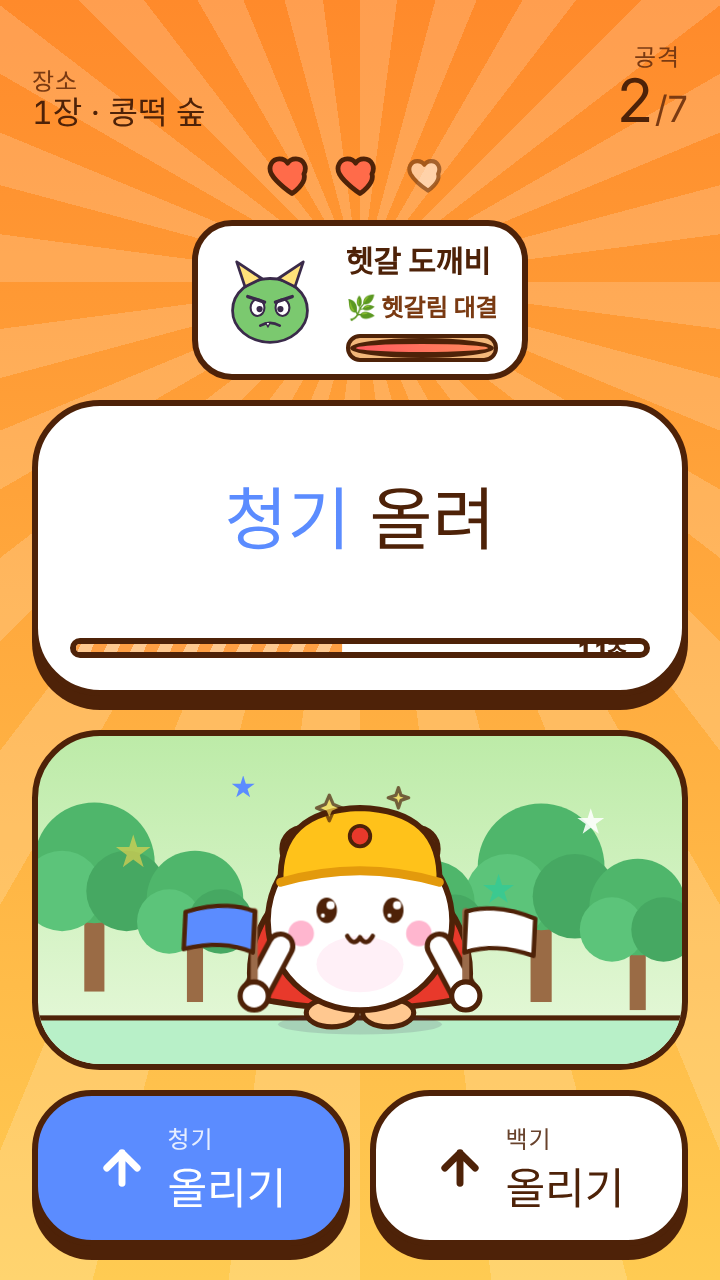
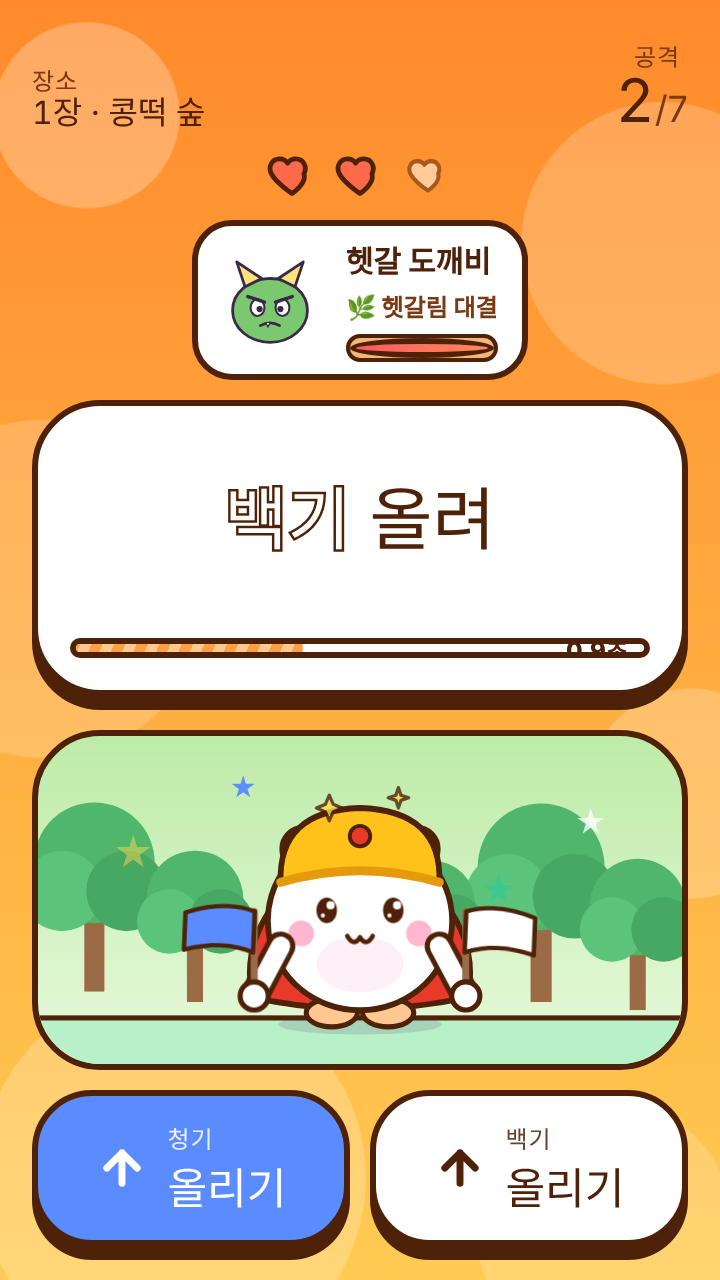
깃발용사: replace sunburst rays with soft bubble background
Claude-Session: https://claude.ai/code/session_0134mUxM4o6J5pGvRH1fZomD

diff --git a/hero/index.html b/hero/index.html
@@ -184,8 +184,8 @@ textarea{width:100%; border-radius:16px; border:2px solid var(--line); backgroun
   --display:'Jua','Noto Sans KR',system-ui,sans-serif;
   --body:'Gowun Dodum','Noto Sans KR',system-ui,sans-serif;
 }
-body{background-image:repeating-conic-gradient(from 0deg at 50% 22%,rgba(255,255,255,.17) 0 7.5deg,rgba(255,255,255,0) 7.5deg 15deg),linear-gradient(180deg,var(--sky) 0%,var(--sky2) 100%); background-size:100% 100%,100% 100%; font-weight:400}
-.overlay{background-image:repeating-conic-gradient(from 0deg at 50% 22%,rgba(255,255,255,.17) 0 7.5deg,rgba(255,255,255,0) 7.5deg 15deg),linear-gradient(180deg,var(--sky) 0%,var(--sky2) 100%); background-size:100% 100%,100% 100%}
+body{background-image:radial-gradient(circle at 12% 9%,rgba(255,255,255,.26) 0 46px,rgba(255,255,255,0) 47px),radial-gradient(circle at 92% 19%,rgba(255,255,255,.2) 0 70px,rgba(255,255,255,0) 71px),radial-gradient(circle at 6% 46%,rgba(255,255,255,.18) 0 84px,rgba(255,255,255,0) 85px),radial-gradient(circle at 96% 62%,rgba(255,255,255,.22) 0 52px,rgba(255,255,255,0) 53px),radial-gradient(circle at 24% 92%,rgba(255,255,255,.22) 0 96px,rgba(255,255,255,0) 97px),radial-gradient(circle at 84% 96%,rgba(255,255,255,.18) 0 64px,rgba(255,255,255,0) 65px),linear-gradient(180deg,var(--sky) 0%,var(--sky2) 100%); background-size:100% 100%; font-weight:400}
+.overlay{background-image:radial-gradient(circle at 12% 9%,rgba(255,255,255,.26) 0 46px,rgba(255,255,255,0) 47px),radial-gradient(circle at 92% 19%,rgba(255,255,255,.2) 0 70px,rgba(255,255,255,0) 71px),radial-gradient(circle at 6% 46%,rgba(255,255,255,.18) 0 84px,rgba(255,255,255,0) 85px),radial-gradient(circle at 96% 62%,rgba(255,255,255,.22) 0 52px,rgba(255,255,255,0) 53px),radial-gradient(circle at 24% 92%,rgba(255,255,255,.22) 0 96px,rgba(255,255,255,0) 97px),radial-gradient(circle at 84% 96%,rgba(255,255,255,.18) 0 64px,rgba(255,255,255,0) 65px),linear-gradient(180deg,var(--sky) 0%,var(--sky2) 100%); background-size:100% 100%}
 .lbl{font-family:var(--body); font-weight:400; color:var(--ink-soft)}
 .hud b{color:var(--ink)}
 .combo{border:3px solid var(--ink); box-shadow:0 3px 0 var(--ink); color:var(--ink); font-family:var(--display); font-weight:400; font-size:16px}
